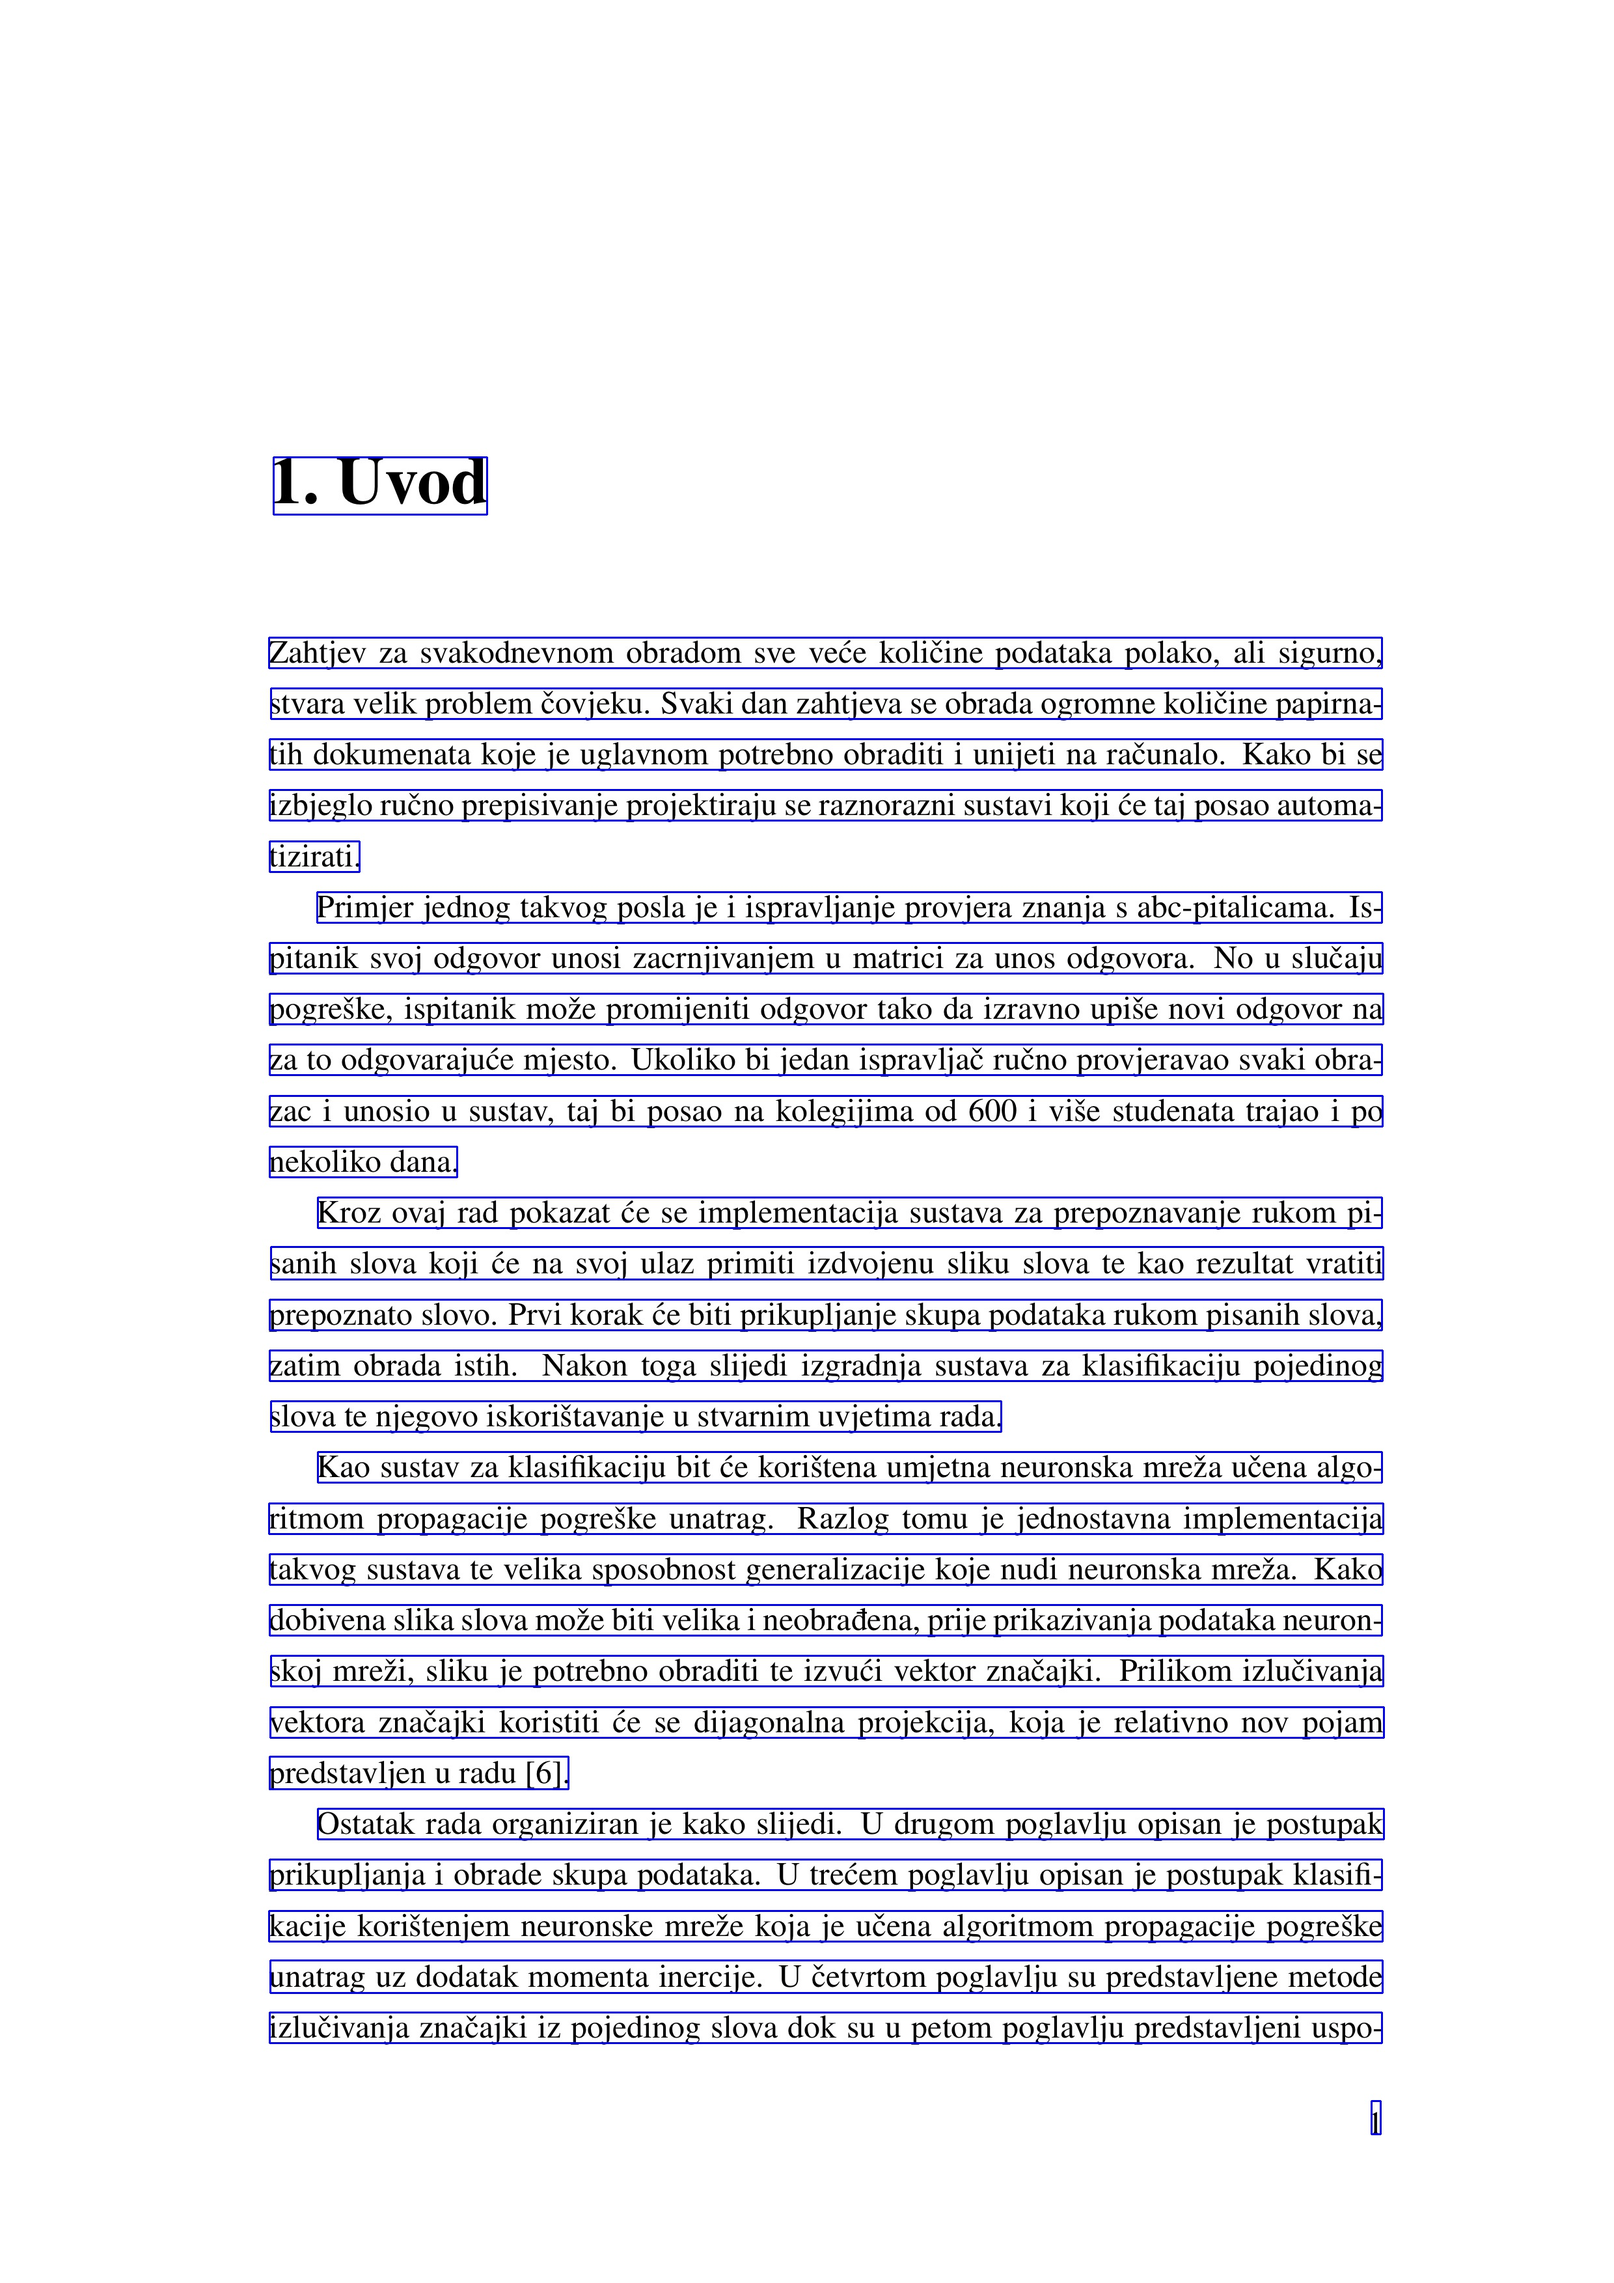
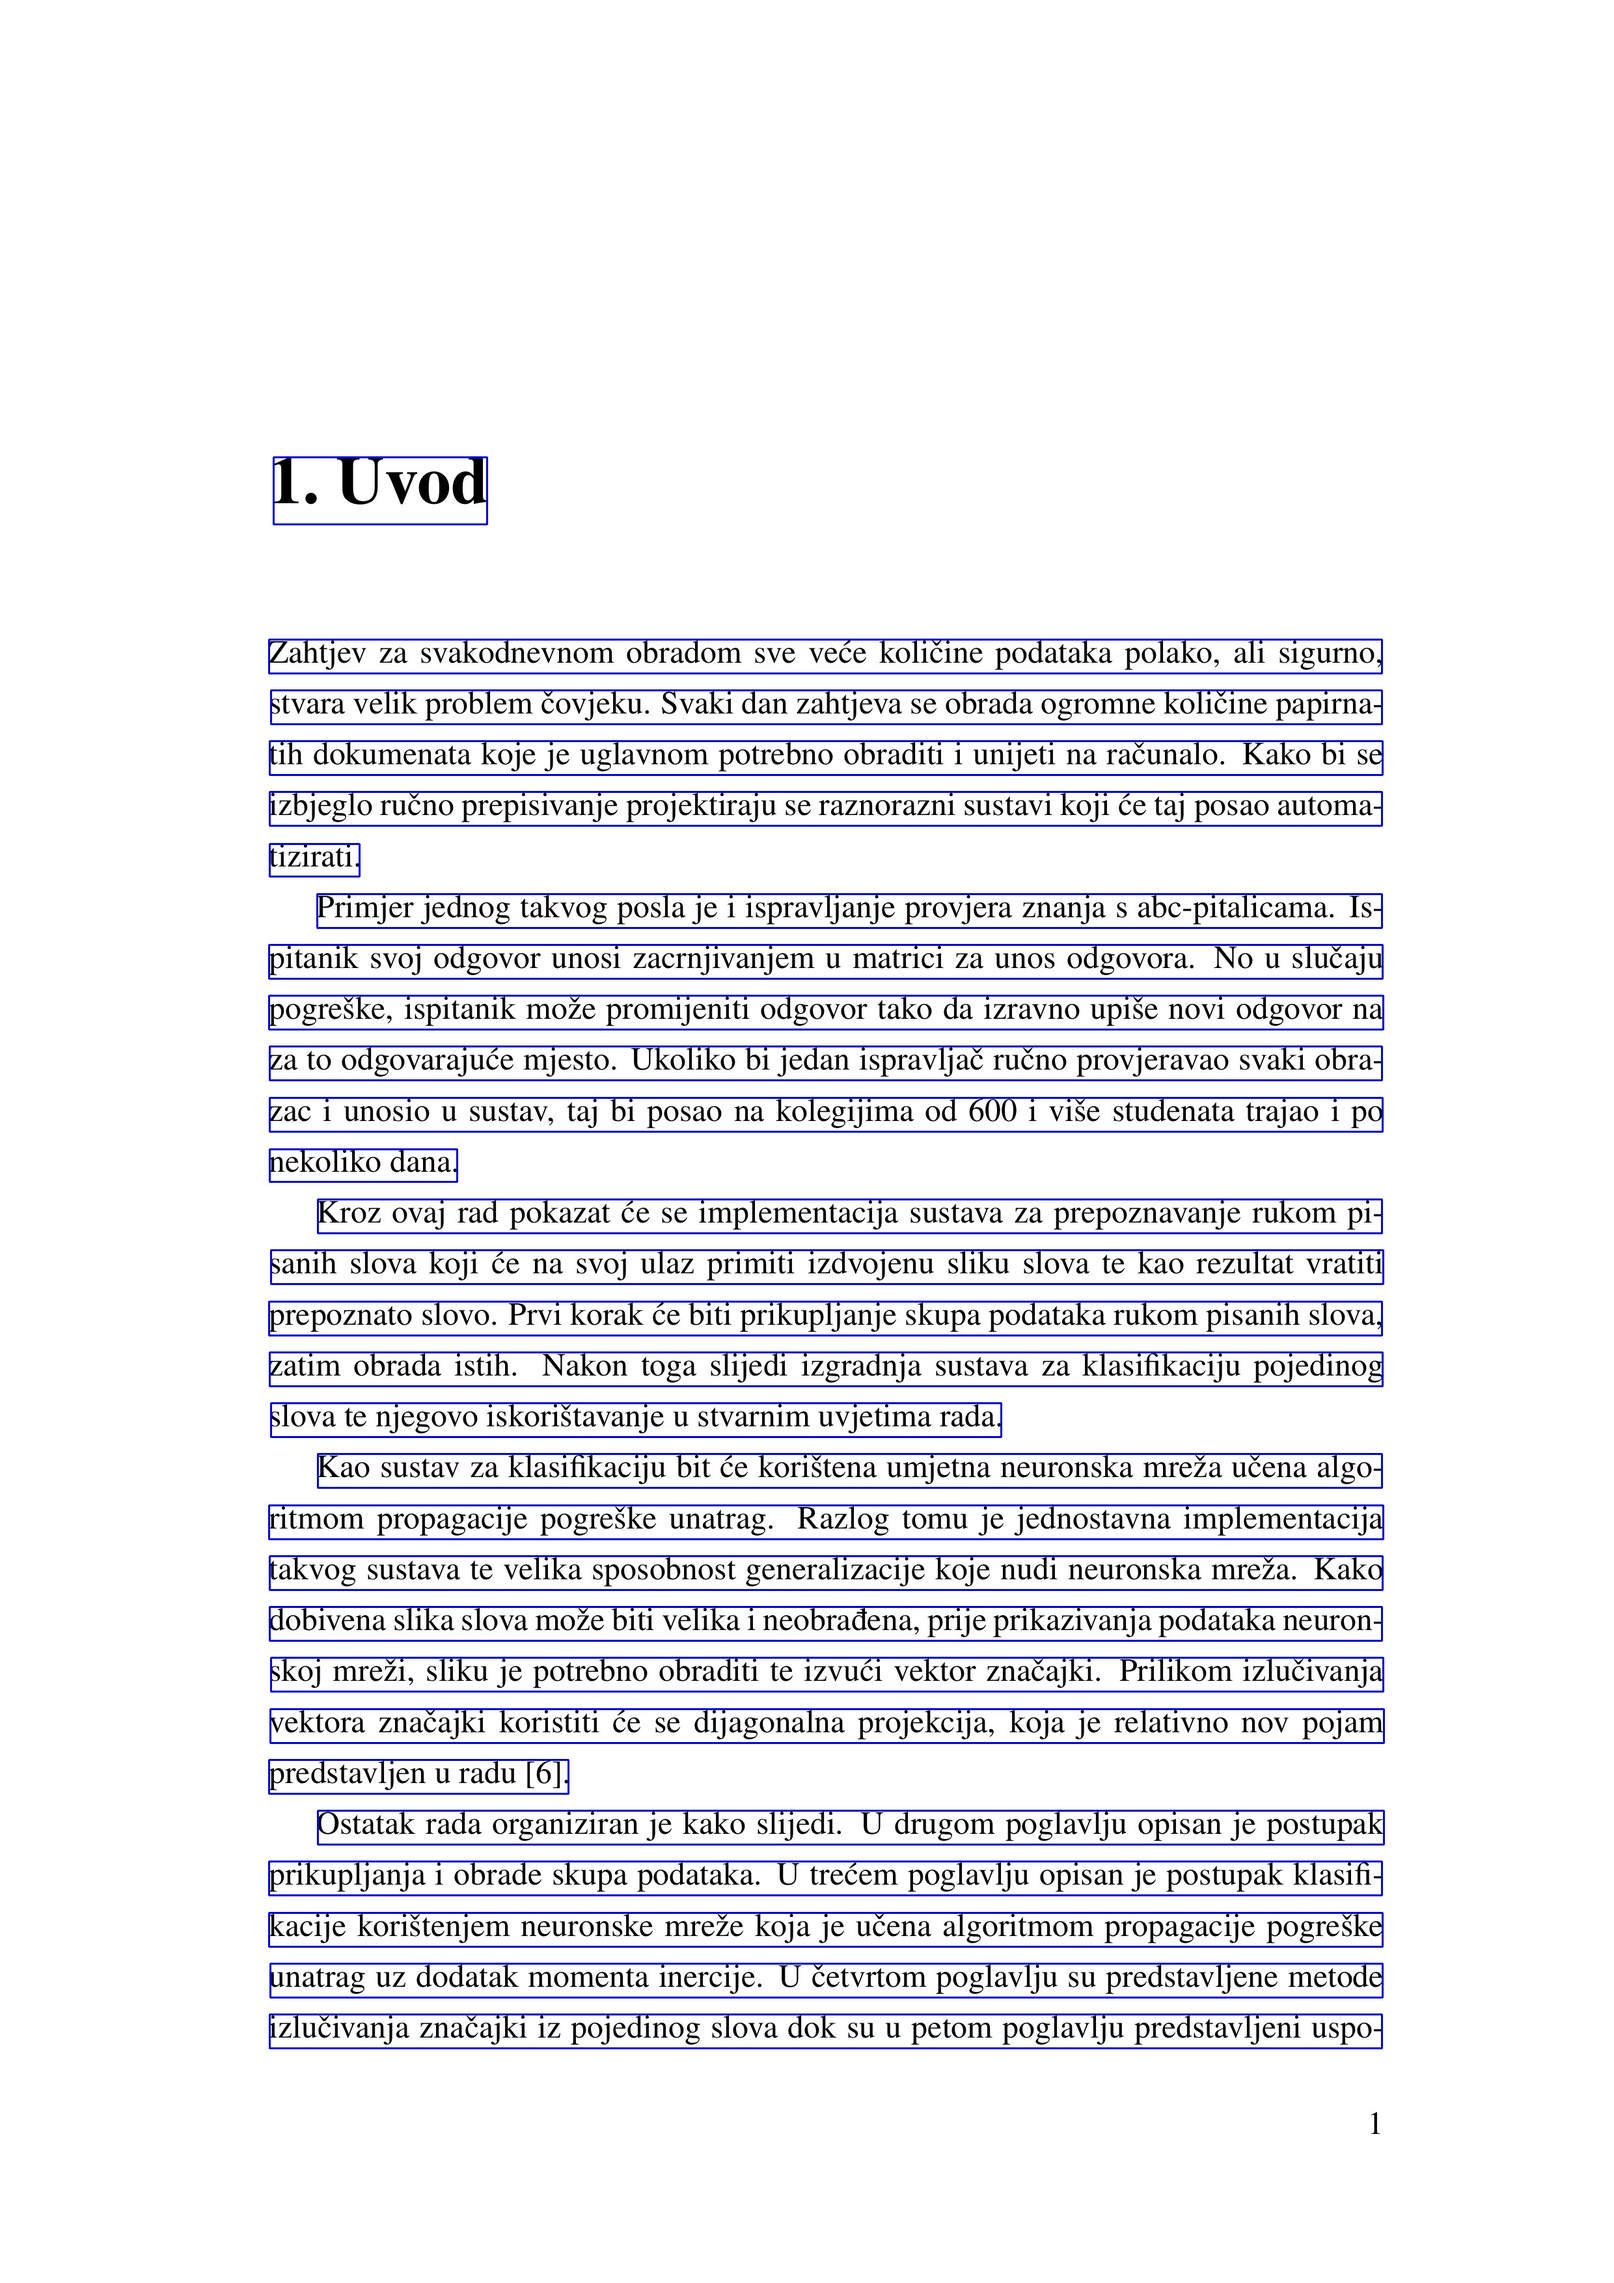
Previous stae.

Changed region(s): [[0.1552, 0.404, 0.8694, 0.9013], [0.1552, 0.2797, 0.8694, 0.373]]

diff --git a/src/text_image_v3.py b/src/text_image_v3.py
@@ -1,0 +1,136 @@
+import cv2
+import numpy as np
+from ocr_image import OCRImage
+from line_image import LineImage
+
+from utils import hist, constants
+from utils.helpers import debug_plot_array
+
+
+class TextImageBaseline(OCRImage):
+
+    def __init__(self, image, width, height, x_offset=0, y_offset=0):
+        super().__init__(image, width, height, x_offset, y_offset)
+
+        self.lines = []
+
+    def get_segments(self):
+        image = self.get_image()
+        height, width = image.shape[:2]
+
+        h_proj = hist.horizontal_projection(image)
+
+        # First of all, get perfectly separable segments (line candidates)
+        space_candidates = hist.get_histogram_spaces(h_proj, 0)
+        line_candidates = hist.get_histogram_peaks(h_proj, space_candidates)
+        print(line_candidates)
+
+
+
+        # Idea took from https://content.sciendo.com/view/journals/amcs/27/1/article-p195.xml
+        h_proj_smooth = hist.running_mean(h_proj, 5)
+        hist_spaces = hist.get_histogram_spaces(h_proj_smooth, constants.NOISE_PIXELS_THRESHOLD)
+        hist_peaks = hist.get_histogram_peaks(h_proj_smooth, hist_spaces)
+
+        hist_peaks = self._filter_hist_peaks(h_proj_smooth, hist_peaks)
+
+        lines = self._include_typography(hist_peaks, image)
+        blobs = self._strip_lines(lines, image)
+        line_images = []
+        for (start_y, end_y, start_x, end_x) in blobs:
+
+
+            roi_image = image[start_y:end_y + 1, start_x:end_x + 1]
+
+            x_offset = self.get_x() + start_x
+            y_offset = self.get_y() + start_y
+            width = end_x - start_x + 1
+            height = end_y - start_y + 1
+
+            line_image = LineImage(roi_image, width, height, x_offset, y_offset)
+            line_images.append(line_image)
+
+        self.lines = line_images
+        return line_images
+        
+    def _strip_lines(self, lines, image):
+        blobs = []
+        index = 0
+        for (y1, y2) in lines:
+            index +=1
+            roi = image[y1:y2 + 1,:]
+            v_proj = hist.vertical_projection(roi)
+            x1, x2 = hist.blob_range(v_proj)
+            if x1 >= 0 and x2 >= 0:
+                blobs.append((y1, y2, x1, x2))
+
+        return blobs
+
+    def _include_typography(self, lines, image):
+        image_height, _ = image.shape[:2]
+        max_index = image_height - 1
+
+        padded_lines = []
+        for (y1, y2) in lines:
+            line_height = y2 - y1 + 1
+            cap_height = int(line_height * constants.CAP_HEIGHT)
+            baseline_height = int(line_height * constants.BASELINE_HEIGHT)
+
+            y1 = max(0, y1 - cap_height)
+            y2 = min(max_index, y2 + baseline_height)
+            padded_lines.append((y1, y2))
+
+        return np.array(padded_lines)      
+
+    def _filter_hist_peaks(self, histogram, peaks):
+        peak_means = hist.get_histogram_peak_means(histogram, peaks)
+
+        coords_candidate = []
+        for (coords, mean) in zip(peaks, peak_means):
+            new_coords = self._get_mean_peak_cords(histogram, coords, mean)
+            coords_candidate.extend(new_coords)
+        
+        lines = self._filter_lines(coords_candidate)
+
+        return lines
+
+    def _filter_lines(self, lines):
+        line_heights = [y2 - y1 + 1 for (y1, y2) in lines]
+        avg_line_height = sum(line_heights) / len(lines)
+
+        line_height_treshold = avg_line_height * 0.9
+
+        filtered_lines = []
+        for (y1, y2) in lines:
+            line_height = y2 - y1 + 1
+            if line_height >= line_height_treshold:
+                filtered_lines.append((y1, y2))
+
+        return filtered_lines
+
+    def _get_mean_peak_cords(self, hist, coords, mean):
+        start_x, end_x = coords
+        threshold = mean * constants.MEAN_HISTOGRAM_CUTOFF
+        candidates = []
+
+        x1, x2 = None, None
+        for index in range(start_x, end_x + 1):
+            value = hist[index]
+            if index == end_x:
+                if x1 != None and x2 != None:
+                    candidates.append((x1, x2))
+                    break
+
+            if value > threshold:
+                if x1 == None:
+                    x1 = index
+                x2 = index
+            else:
+                if x1 != None and x2 != None:
+                    candidates.append((x1, x2))
+                x1, x2 = None, None
+
+        if len(candidates) == 0:
+            return [coords]
+        else:
+            return candidates

diff --git a/src/test.py b/src/test.py
@@ -6,7 +6,7 @@ from filters.binarization import otsu, sauvola, adaptive_gauss
 from utils.helpers import load_image, debug_display_image, debug_plot_array
 
 from ocr_image import OCRImage
-from text_image_v2 import TextImageBaseline
+from text_image_v3 import TextImageBaseline
 import imutils
 
 input_image = load_image("../data/uvod.jpg")

diff --git a/src/utils/constants.py b/src/utils/constants.py
@@ -1,5 +1,5 @@
 NOISE_PIXELS_THRESHOLD = 2
 MEAN_HISTOGRAM_CUTOFF = 0.9
-CAP_HEIGHT = 0.6
-BASELINE_HEIGHT = 0.4
+CAP_HEIGHT = 0.5
+BASELINE_HEIGHT = 0.7
 WORD_SPACE_DISTANCE_HEIGHT_RATIO = 1.0 / 5.0
